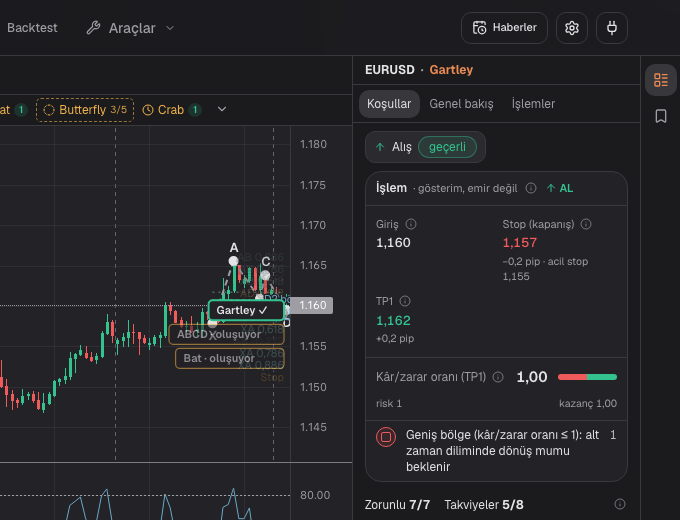
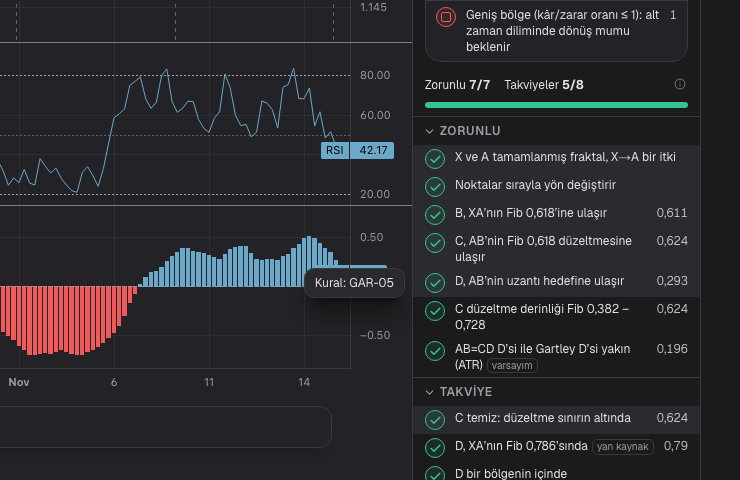
docs(journal): checklist hint screenshots show rows, hint and price axis (FRM-19)

diff --git a/docs/journal/2026-11-18-checklist-tooltip-left.md b/docs/journal/2026-11-18-checklist-tooltip-left.md
@@ -19,9 +19,9 @@ The hint "Kural: {id}" of a checklist row opened below the row and covered the t
 - Test `e2e/mocked/formation-page.spec.ts` (@FRM-19), 1440 px, hover and keyboard focus: the hint box (a) touches no row box, (b) ends at or before the left edge of the row, (c) lies inside the viewport.
 
 ## Evidence
-Screenshots (mocked data, 1440 px, hover on GAR-03; light theme forced through `localStorage`, `html` class checked): ![light](images/2026-11-18-checklist-tooltip-left-light.png) ![dark](images/2026-11-18-checklist-tooltip-left-dark.png)
+Screenshots (mocked data, 1440 px, crop shows the checklist rows, the hint and the price axis; light theme forced through `localStorage`, `html` class checked). Hover on the row "D, AB'nin uzantı hedefine ulaşır" (hint GAR-05), then on the row above it (hint GAR-03): ![light](images/2026-11-18-checklist-tooltip-left-light.png) ![dark](images/2026-11-18-checklist-tooltip-left-dark.png) ![light, between labels](images/2026-11-18-checklist-tooltip-left-between-light.png) ![dark, between labels](images/2026-11-18-checklist-tooltip-left-between-dark.png)
 
-Observation: the hint is readable in both themes. It covers the price-axis column of the chart at the height of the row, so it can hide an axis label at that height. In the screenshot it sits between two labels and hides none.
+Observation: the hint is readable in both themes (own background, border, shadow). It opens over the price-axis column of the chart, because the panel is next to it. Whether it covers an axis label depends on the row height. For GAR-05 it covers the "0.00" label and the "EWO 0.14" tag of the lower pane. For GAR-03 it sits between the "20.00" and "0.50" labels and covers none. So the hint can hide one axis label while it is open; it never covers a checklist row.
 
 ## Open
 - Phone width (375 px) is not designed (Halil, 2026-11-17); there the hint falls back to the bottom.
